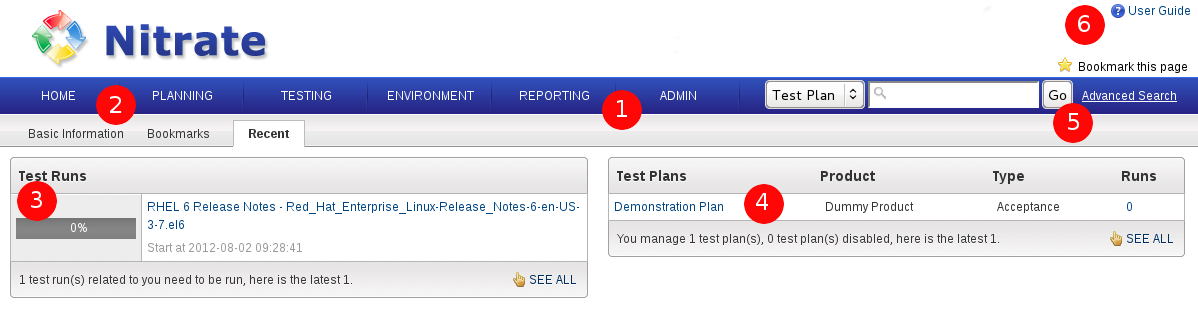
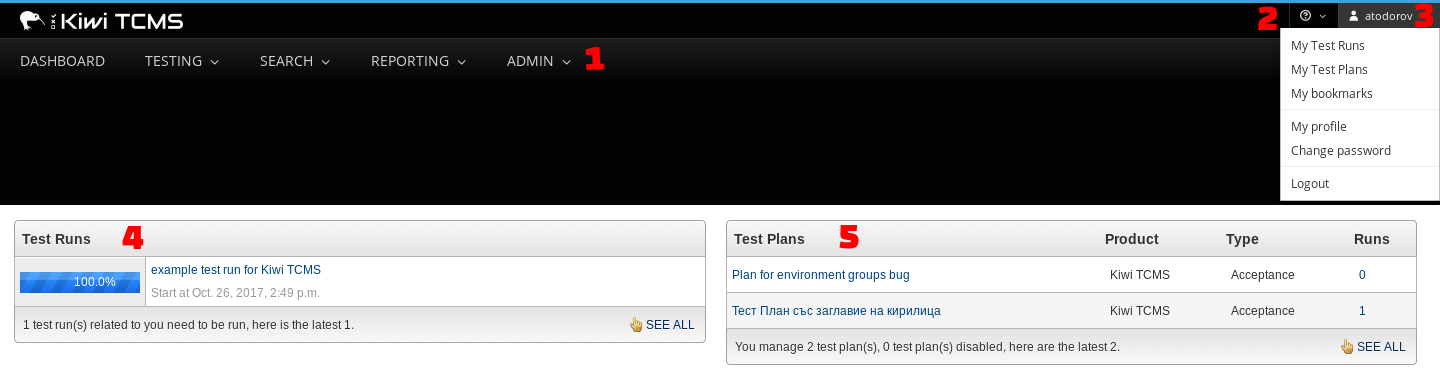
Update screenshots and docs

diff --git a/docs/source/guide/introduction.rst b/docs/source/guide/introduction.rst
@@ -6,11 +6,11 @@ Introduction
 "If it is not in the TCMS then we do not do it", and the converse: "If
 we do it then it is in the TCMS".
 
-The above motto has been the paradigm driving the development of the
-TCMS. The development team has created a canonical source of information
+The above motto has been the paradigm driving the development of Kiwi TCMS.
+The development team has created a canonical source of information
 about testing that is useful to both managers and QE Associates.
 
-The TCMS provides:
+Kiwi TCMS provides:
 
 -  Managers with a source of information on planning, cases and
    execution status.
@@ -28,114 +28,61 @@ features accessible from the home page.
 
 |The TCMS home page|
 
-#. Menu bar
-#. Bookmarks, Basic information and Recent tabs
-#. Test Run list
-#. Test Plan list
-#. Quick and Advanced search
-#. User Guide
+#. Navigation bar
+#. Help menu
+#. Personal menu
+#. Your Test Run dashboard
+#. Your Test Plan dashboard
 
-**Menu bar**
+**Navigation bar**
 
-The menu bar consists of six main menu items. When you hover over a menu
-item, a sub-menu appears. The first item in the sub-menu is the default
-page for the main menu item. To navigate to a previous screen, click on
+The navigation bar consists of the Main menu, Help menu and Personal menu.
+When you click over a menu item, a sub-menu appears. To navigate to a previous screen, click on
 the breadcrumb located below the menu bar.
 
 |The TCMS menu bar and breadcrumbs|
 
--  **Home**
--  **Planning**
-
-   -  Search Plans
-   -  My Plans
-   -  New Plan
-
--  **Testing**
-
-   -  Search Runs
-   -  Search Cases
-   -  My Runs
-   -  New Case
-
--  **Environment**
-
-   -  Groups
-   -  Properties
-
--  **Reporting**
-
-   -  Overall
-   -  Custom
-   -  Testing Report
-
--  **Admin**
-
-   -  Auth
-   -  Management
-   -  Test Plans
-   -  Test Cases
-
--  **Quick Search**
--  **Advanced Search**
-
 Bookmarks
 ~~~~~~~~~
 
-Any page in TCMS can be bookmarked.
+Any page in Kiwi TCMS can be bookmarked.
 
--  Click the **Bookmarks** tab from the **Home** to view your bookmarks.
--  Click **Bookmark this page** to add the current page to your
-   bookmarks.
+-  Click the **My bookmarks** item from the **Personal menu** to view your bookmarks.
+-  Click **Bookmark this page** icon to add the current page to your bookmarks.
 
-Basic information
-~~~~~~~~~~~~~~~~~
+.. note::
 
-TCMS stores basic user profile information. For example, email, IRC
-nick, and contact details.
+    Kiwi TCMS is transitioning to a a new UI which conflicts with the existing jQuery
+    versions. Because of this the navigation bar is loaded via an iframe and the
+    **Bookark this page** button is disabled. It will be located to the left of the
+    **Help menu** once re-enabled!
 
-Procedure: Editing basic information
-^^^^^^^^^^^^^^^^^^^^^^^^^^^^^^^^^^^^
 
-#. From the Home screen, click **Basic information**.
-#. Edit the required fields.
-#. Click **Save Change**.
-
-Test Runs
-~~~~~~~~~
+Personal dashboard
+~~~~~~~~~~~~~~~~~~~
 
 The home screen contains a list of Test Runs associated with the user
-and a graphical display showing completion status. To access a Test
-Plan, click the Test Run's name.
+and a graphical display showing their completion status. To access a 
+Test Run, click on its name.
 
-Test Plans
-~~~~~~~~~~
+The home screen also contains a list of Test Plans associated with the user.
+To access a Test Plan, click on its name.
 
-The home screen contains a list of Test Plans associated with the user.
-To access a Test Plan, click the Test Plan's name.
+Help menu
+~~~~~~~~~
 
-Quick Search
-~~~~~~~~~~~~
+The **Help menu** provides additional links to help pages:
 
-Quick search allows direct access to a Test Plan, Test Case, or Test Run
-via drop-down. To access a Test Plan, Test Case, or Test Run, enter the
-ID number, and then click **Go**.
+- Report an issue with Kiwi TCMS
+- User guide
+- Administration guide
+- XML-RPC service API document
+- Kiwi TCMS version
 
-|A quick search example|
+.. note::
 
-Footer
-~~~~~~
-
-The footer provides links to TCMS related topics:
-
--  Contact developers. Email the TCMS mailing list.
--  Request permissions. Ask for extra rights in TCMS.
--  Report bug. Help build a better TCMS.
--  User Guide.
--  Satisfaction survey. Provide feedback to the development team.
--  Release schedule. Upcoming releases.
--  XML-RPC service. API document.
+    The items in the Help menu are configurable via the ``HELP_MENU_ITEMS``
+    setting in ``product.py``.
 
 .. |The TCMS home page| image:: ../_static/Home_Screen.png
 .. |The TCMS menu bar and breadcrumbs| image:: ../_static/Navigation_Tabs.png
-.. |A quick search example| image:: ../_static/Quick_Search.png

diff --git a/docs/source/contribution.rst b/docs/source/contribution.rst
@@ -14,7 +14,7 @@ developer, documentation writer or even a normal user.
 Testing
 -------
 
-Automated test suite can be executed with the ``make test`` command. The
+Automated test suite can be executed with the ``make check`` command. The
 following syntax is supported::
 
         make check (uses SQlite)
@@ -27,7 +27,7 @@ following syntax is supported::
 
     If you want to execute testing against different DB engines on your local
     development environment make sure the respecitve DB engines are installed
-    and configured! ``make test`` uses the configuration files under
+    and configured! ``make check`` uses the configuration files under
     ``tcms/settings/test/``. Make sure to edit them if necessary!
 
 
@@ -50,9 +50,8 @@ Documentation
 -------------
 
 Documentation has been provided along with the source code within the ``docs/``
-directory and is built using Sphinx. All content are written in
-reStructuredText format. You can use any your favourite text editor to edit it.
-To build the docs::
+directory and is built using Sphinx. All content is written in
+reStructuredText format. To build the docs::
 
     $ cd docs/
     $ make html

diff --git a/docs/source/installing_docker.rst b/docs/source/installing_docker.rst
@@ -50,11 +50,12 @@ Upgrading
 To upgrade running Kiwi TCMS containers execute the following commands::
 
     docker-compose down
-    docker pull kiwitcms/kiwi # to fetch latest version from Docker.io
+    # make docker-image if you build from source or
+    docker pull kiwitcms/kiwi # to fetch latest version from a docker registry
     docker-compose up -d
     docker exec -it kiwi_web /Kiwi/manage.py migrate
 
-.. note:
+.. note::
 
     Uploads and database data should stay intact because they are split into
     separate volumes, which makes upgrading very easy. However you may want to
